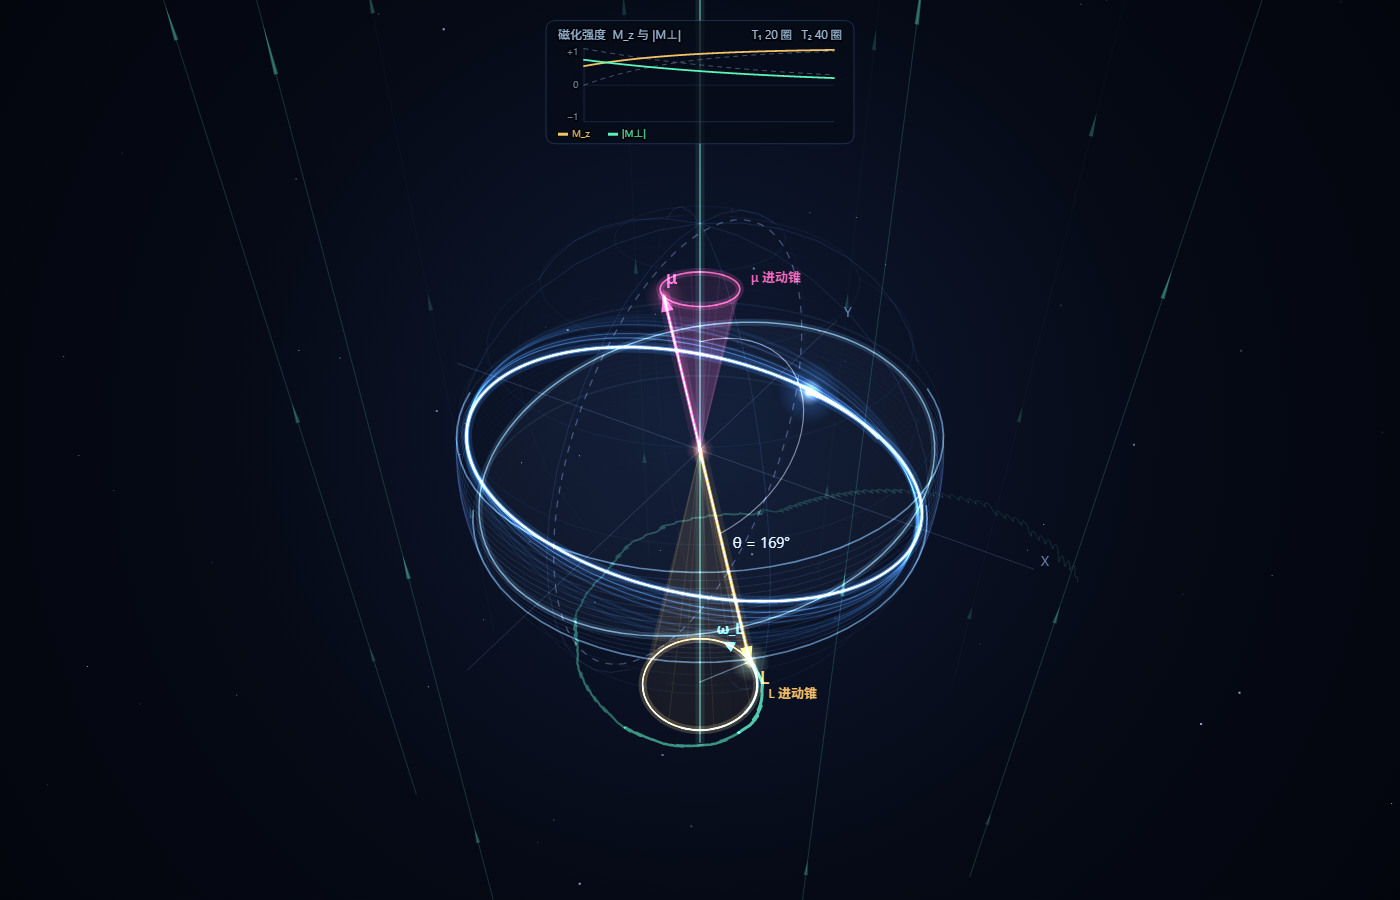
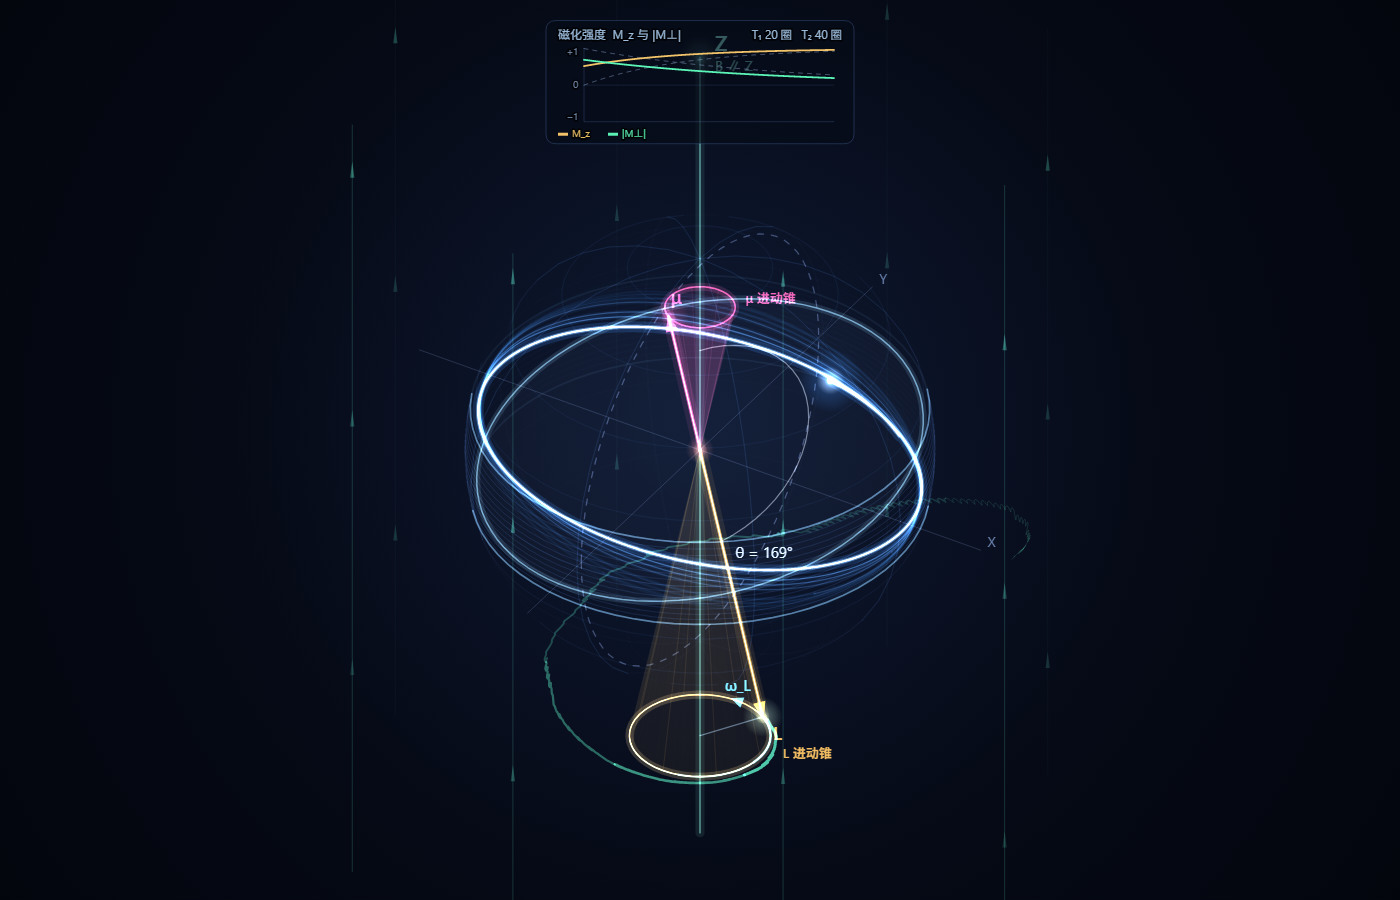
Switch to orthographic projection so vector ratios survive on screen
Reported: "the two axes are not on the cone's opposite generatrix". Recording the
actual canvas strokes and measuring in screen coordinates found the real defect:

  config              shaft angle   screen |mu|/|L|   (must be 0.500)
  default theta=30       0.00 deg        0.267   WRONG
  relax + quant          0.00 deg        0.501   ok
  relax theta=90         0.00 deg        0.606   WRONG
  quant l=3              0.00 deg        0.256   WRONG

The shafts were collinear and antiparallel (so nothing was swapped), but
perspective projection wrecked the length ratio: mu = -L/2 makes the two arrows
point into opposite depth directions, so the near one looks long and the far one
short, and the ratio wandered between 0.25 and 0.6. The physical fact "mu is
exactly half of L" was invisible on screen - which is what makes the pair read as
"not the antipodal generatrix".

Fix: orthographic (parallel) projection. The pixel scale is now independent of
depth. All five configurations measure exactly 0.500 with 0.00 deg between the
shafts. Bonus: uniform-field lines really are parallel, and they now stay
parallel after projection.

This is the fourth bug of the same kind in this session - the 3D maths was right
but the rendered picture was wrong. Numeric assertions cannot catch that, so
test-headless.js now records the real canvas stroke calls and checks, in screen
coordinates, that the L and mu shafts are collinear, antiparallel, in a 0.500
[…]

Changed region(s): [[0.3071, 0.28, 0.6757, 0.8711], [0.7064, 0.5911, 0.7371, 0.6222], [0.4914, 0.0311, 0.5221, 0.0622]]

diff --git a/larmor-precession/test-headless.js b/larmor-precession/test-headless.js
@@ -14,17 +14,28 @@ let errors = [];
 let drawingCalls = 0;
 const methodCount = {};
 
-/* ---------------- canvas 2d 上下文桩件 ---------------- */
+/* ---------------- canvas 2d 上下文桩件 (同时录制描边, 供屏幕空间检查) ---------------- */
+const rec = { on: false, strokeStyle: '', lineWidth: 0, cur: null, segs: [] };
 function makeCtx() {
-  const t = {};
-  return new Proxy(t, {
-    get(o, p) {
-      if (p === 'createRadialGradient' || p === 'createLinearGradient')
-        return () => ({ addColorStop() {} });
-      if (p in o) return o[p];
-      return (...a) => { drawingCalls++; methodCount[p] = (methodCount[p] || 0) + 1; };
+  const t = {
+    beginPath() { if (rec.on) rec.cur = []; },
+    moveTo(x, y) { if (rec.on && rec.cur) rec.cur.push([x, y]); },
+    lineTo(x, y) { if (rec.on && rec.cur) rec.cur.push([x, y]); },
+    stroke() {
+      if (rec.on && rec.cur && rec.cur.length > 1) rec.segs.push({ color: String(rec.strokeStyle), w: rec.lineWidth, pts: rec.cur.slice() });
+      rec.cur = null;
     },
-    set(o, p, v) { o[p] = v; return true; }
+    fill() { rec.cur = null; }, closePath() {}, arc() {}, rect() {},
+    createRadialGradient() { return { addColorStop() {} }; },
+    createLinearGradient() { return { addColorStop() {} }; }
+  };
+  return new Proxy(t, {
+    get(o, p) { if (p in o) return o[p]; return (...a) => { drawingCalls++; methodCount[p] = (methodCount[p] || 0) + 1; }; },
+    set(o, p, v) {
+      if (p === 'strokeStyle') rec.strokeStyle = v;
+      if (p === 'lineWidth') rec.lineWidth = v;
+      o[p] = v; return true;
+    }
   });
 }
 
@@ -274,6 +285,58 @@ else console.log('  → 轨道面已落在允许倾角上 ✓ (β = ' + tiltDeg(
   console.log('  绘制法线 vs 物理轨道法线: ' + ang.toFixed(2) + '° (同面/反向同面则应接近 0)');
   if (ang > 8) errors.push('画出来的箭头与轨道环不同面, μ 看起来不垂直于轨道面: ' + ang.toFixed(2) + '°');
 })();
+
+/* ---------------- 屏幕空间检查 ----------------
+ * 之前四轮 bug (μ 不垂直轨道面 / m 高亮乱跳 / 进动被摁死 / μ 长度不是一半)
+ * 全属于"三维数学量是对的、但屏幕上画出来不对"这一类, 只靠数值断言抓不到。
+ * 这里直接录制 canvas 的真实描边, 在屏幕坐标里验几何关系。 */
+function screenSpaceCheck(tag) {
+  rec.segs.length = 0;
+  rec.on = true;
+  app.render();
+  rec.on = false;
+  const shaft = (key) => {
+    let best = null, bl = 0;
+    for (const s of rec.segs) {
+      if (s.color.indexOf(key) < 0 || s.w < 8) continue;      /* 线宽>=8 = 箭杆外发光那一遍 */
+      const a = s.pts[0], b = s.pts[s.pts.length - 1];
+      const L = Math.hypot(b[0] - a[0], b[1] - a[1]);
+      if (L > bl) { bl = L; best = { a, b, len: L }; }
+    }
+    return best;
+  };
+  const Lo = shaft('255,190,74'), mu = shaft('255,92,162');
+  if (!Lo || !mu) { errors.push(tag + ': 屏幕上找不到金黄色/品红色箭杆'); return; }
+  const cx = app.view.cx, cy = app.view.cy;
+  const u1 = [(Lo.b[0] - Lo.a[0]) / Lo.len, (Lo.b[1] - Lo.a[1]) / Lo.len];
+  const u2 = [(mu.b[0] - mu.a[0]) / mu.len, (mu.b[1] - mu.a[1]) / mu.len];
+  const cross = Math.abs(u1[0] * u2[1] - u1[1] * u2[0]);
+  const angDeg = Math.asin(Math.min(1, cross)) * 180 / Math.PI;
+  const ratio = mu.len / Lo.len;
+  const dL = Math.hypot(Lo.a[0] - cx, Lo.a[1] - cy);
+  const dM = Math.hypot(mu.a[0] - cx, mu.a[1] - cy);
+  /* 两箭杆必须在同一条过原点的直线上, 且方向相反 */
+  const sameLine = angDeg < 0.5;
+  const opposite = (u1[0] * u2[0] + u1[1] * u2[1]) < 0;
+  console.log('  [屏幕] ' + tag + ': 夹角 ' + angDeg.toFixed(2) + '°, 屏幕长度比 |μ|/|L| = ' +
+    ratio.toFixed(3) + ', 起点偏离中心 ' + Math.max(dL, dM).toFixed(1) + ' px');
+  if (!sameLine) errors.push(tag + ': 屏幕上 L 与 μ 箭杆不共线(' + angDeg.toFixed(2) + '°)');
+  if (!opposite) errors.push(tag + ': 屏幕上 μ 与 L 同向而不是反向');
+  if (Math.abs(ratio - 0.5) > 0.02) errors.push(tag + ': 屏幕上 |μ|/|L| = ' + ratio.toFixed(3) + ', 应严格为 0.500');
+  if (Math.max(dL, dM) > 1.5) errors.push(tag + ': 箭杆没有从原点画出 (偏离 ' + Math.max(dL, dM).toFixed(1) + ' px)');
+}
+console.log('');
+console.log('屏幕空间几何检查 (录制真实描边):');
+screenSpaceCheck('默认 θ=30°');
+getEl('r-theta').value = '60'; fire('r-theta', 'input'); app.tick(1 / 60);
+screenSpaceCheck('θ=60°');
+getEl('r-theta').value = '120'; fire('r-theta', 'input'); app.tick(1 / 60);
+screenSpaceCheck('θ=120° (L 指向下)');
+getEl('c-quant').checked = true; fire('c-quant', 'change'); app.tick(1 / 60);
+screenSpaceCheck('量子化 l=2');
+getEl('c-relax').checked = true; fire('c-relax', 'change');
+for (let i = 0; i < 300; i++) app.tick(1 / 60);
+screenSpaceCheck('弛豫中');
 
 /* ---------------- 检查元素 id 与 index.html 一致 ---------------- */
 const appSrc = fs.readFileSync(path.join(__dirname, 'app.js'), 'utf8');

diff --git a/larmor-precession/app.js b/larmor-precession/app.js
@@ -77,15 +77,18 @@ function createApp(canvas, doc, win) {
     view.w = w; view.h = h; view.cx = w * 0.5; view.cy = h * 0.5;
     view.dist = cam.dist;
     view.eye = eye; view.f = f; view.r = r; view.u = u;
-    view.focal = 0.98 * Math.min(w, h) * cam.zoom;
+    /* 正交投影 (平行投影): 像素尺度与深度无关。
+     * 透视会让"指向相反深度方向"的两个箭头长度失真 —— 实测 |μ|/|L| 在屏幕上
+     * 会在 0.25~0.6 之间漂, 而物理上它必须精确等于 0.500 (μ = -½L)。
+     * 对一张几何/矢量图来说, 正交投影才保长度比与共线性。 */
+    view.scale = 0.98 * Math.min(w, h) * cam.zoom / cam.dist;
   }
   function project(p) {
     var dx = p[0] - view.eye[0], dy = p[1] - view.eye[1], dz = p[2] - view.eye[2];
     var X = dx * view.r[0] + dy * view.r[1] + dz * view.r[2];
     var Y = dx * view.u[0] + dy * view.u[1] + dz * view.u[2];
     var Z = dx * view.f[0] + dy * view.f[1] + dz * view.f[2];
-    var s = view.focal / (Z > 0.15 ? Z : 0.15);
-    return { x: view.cx + X * s, y: view.cy - Y * s, z: Z, vis: Z > 0.15 };
+    return { x: view.cx + X * view.scale, y: view.cy - Y * view.scale, z: Z, vis: true };
   }
   /* 深度衰减: 靠近相机的部分更亮 */
   function dA(z, base) {
